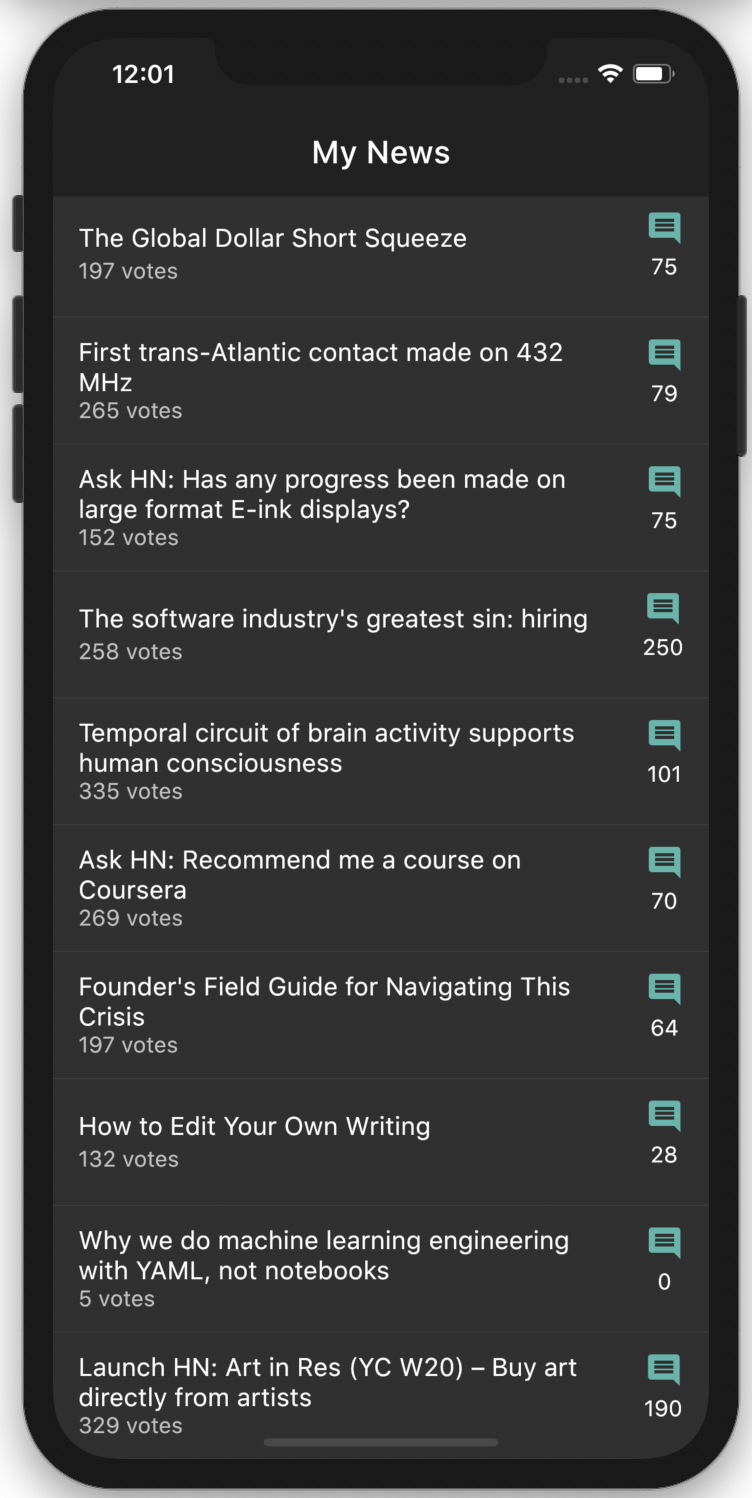
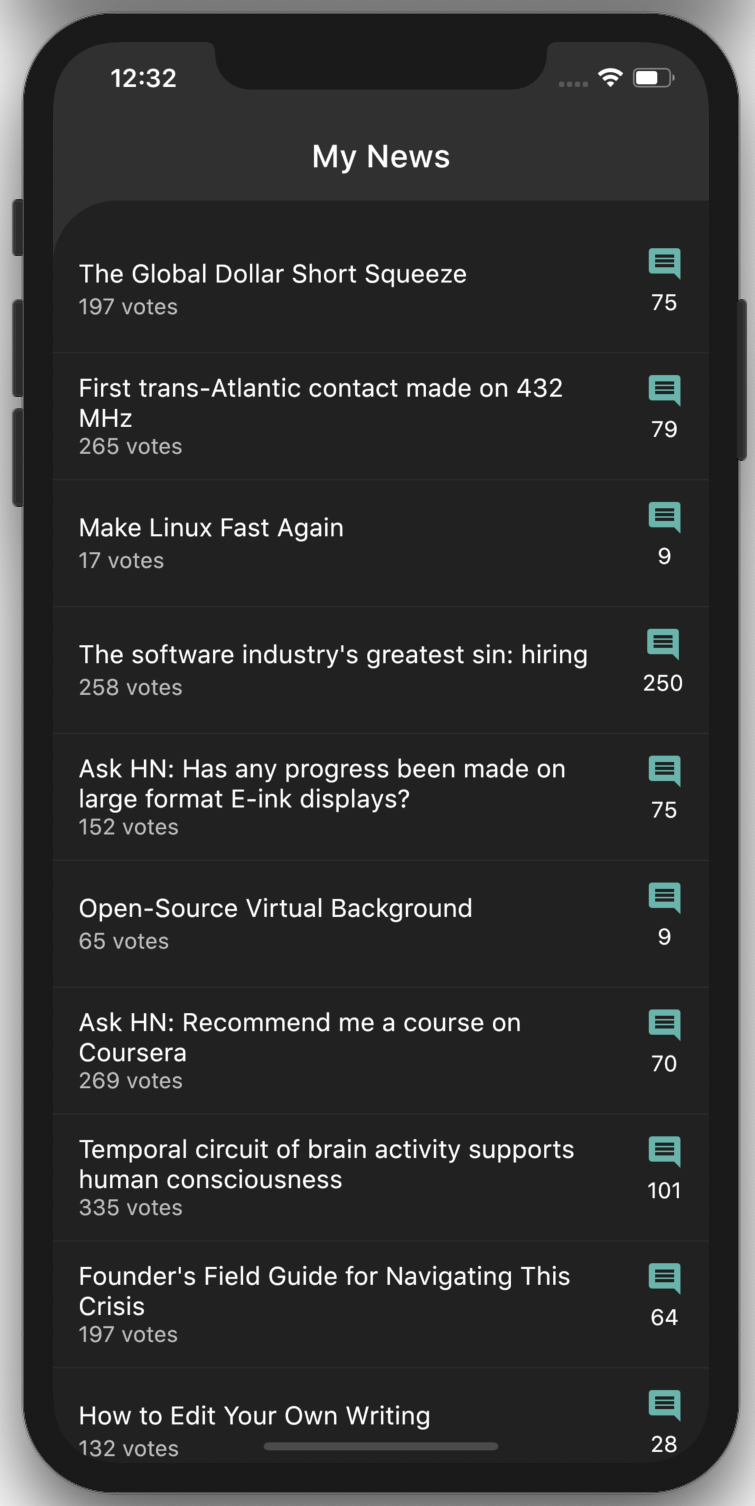
dark theme added

Changed region(s): [[0.0, 0.0, 1.0, 1.0], [0.3976, 0.0921, 0.6117, 0.1228], [0.6423, 0.8905, 0.7646, 0.9212]]

diff --git a/hacker_news/lib/src/screens/home.dart b/hacker_news/lib/src/screens/home.dart
@@ -11,12 +11,22 @@ class Home extends StatelessWidget {
     final storyBloc = StoriesProvider.of(context);
 
     return Scaffold(
-        appBar: AppBar(
-          elevation: 0.0,
-          centerTitle: true,
-          title: Text(title),
-        ),
-        body: buildList(storyBloc));
+      appBar: AppBar(
+        backgroundColor: Colors.transparent,
+        elevation: 0.0,
+        centerTitle: true,
+        title: Text(title),
+      ),
+      body: Container(
+        padding: EdgeInsets.only(top:20),
+        decoration: BoxDecoration(
+          color: Colors.grey.shade900,
+         borderRadius: BorderRadius.only(topLeft: Radius.circular(40))),
+        child: buildList(storyBloc),
+      ),
+      
+      
+    );
   }
 
   buildList(StoriesBloc bloc) {

diff --git a/hacker_news/lib/src/widgets/loading_tile.dart b/hacker_news/lib/src/widgets/loading_tile.dart
@@ -5,8 +5,8 @@ class LoadingTile extends StatelessWidget {
     return Column(
       children: <Widget>[
         ListTile(
-          title: buildContainer(shade: 900),
-          subtitle: buildContainer(shade: 800),
+          title: buildContainer(shade: 800),
+          subtitle: buildContainer(shade: 700),
         ),
         Divider(height: 8,),
       ],

diff --git a/hacker_news/lib/src/screens/news_detail.dart b/hacker_news/lib/src/screens/news_detail.dart
@@ -12,7 +12,7 @@ class NewsDetail extends StatelessWidget {
     final commentsBloc = CommentsProvider.of(context);
     return Scaffold(
       appBar: AppBar(
-        title: Text("Details"),
+        title: Text("More"),
       ),
       body: buildBody(commentsBloc),
     );
